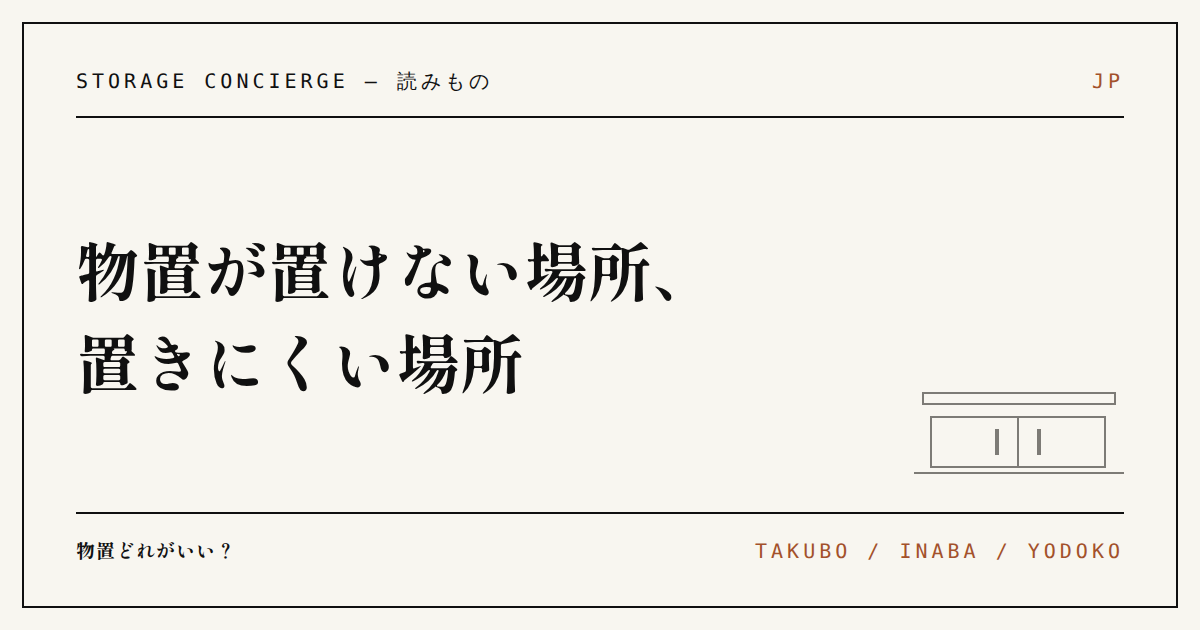
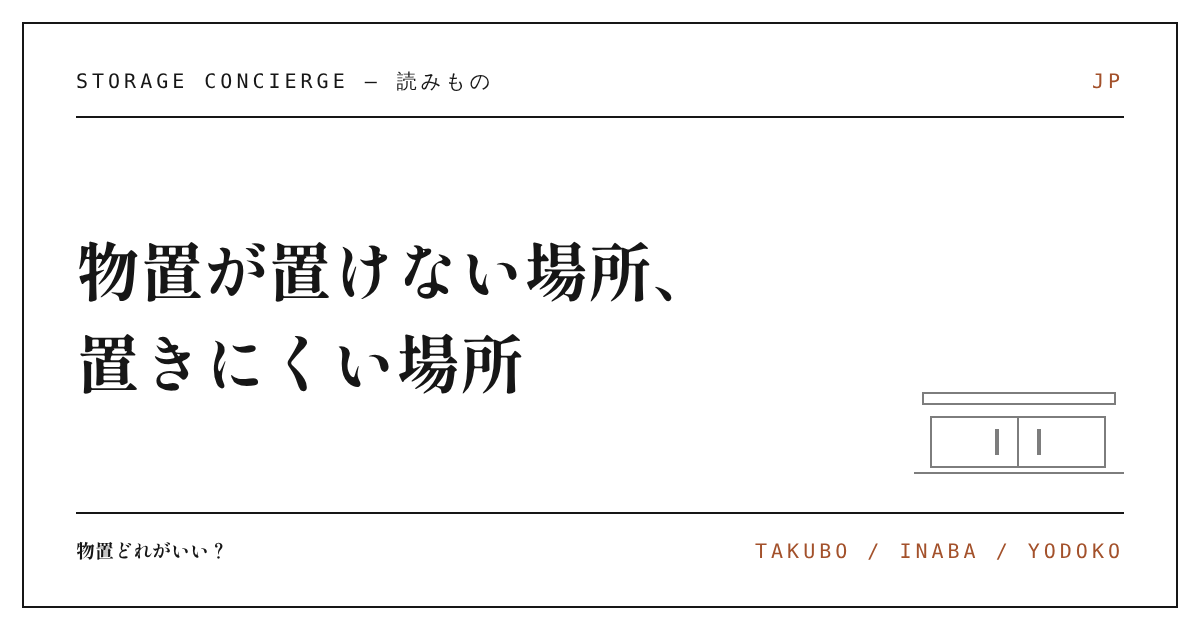
site: OG画像を新しい配色に作り直した 2026-10-15

diff --git a/index.html b/index.html
@@ -1452,6 +1452,8 @@ const INNER = {
                      発表を受けて当サイトに型番を追加したときは、別に '新商品' を立てる。
    既存の記録は削除・改変しないこと（この台帳は追記のみ）。 */
 const UPDATE_LOG = [
+  { date:'2026-10-15', type:'改定', title:'SNSで共有したときに出る絵を、新しい配色に作り直しました',
+    body:'10月14日に配色をベージュから白に変えましたが、SNSやLINEで共有したときに出るOG画像11枚は、ベージュの地色が焼き込まれたままでした。サイト上では見えず、共有したときだけ旧い配色が出る状態でした。記事ごとの10枚は生成ツール（tools/build-og-images.py）を回し直しています。ツールが要求する明朝体のフォントが手元に無かったので、npm の @fontsource/shippori-mincho-b1 から取って tools/_ogfonts/ に置きました（2MBあるので .gitignore に入れ、サイトには上げません）。サイト共通の og-image.png は、作ったときのツールが残っていなかったため、画像の色だけを置き換えています。地色を白に、文字と罫を#161616に、茶色のアクセントはそのままにする変換で、配置と文字は元のままです。' },
   { date:'2026-10-15', type:'改定', title:'記事の本文から製品ページへ行けるようにし、比較の状態を出しました',
     body:'2つの変更です。1つめ。記事の本文に出てくるシリーズ名と型番を、その製品ページへのリンクにしました。これまでは記事の末尾に製品ページへの導線があるだけで、本文中でシリーズ名や型番に触れてもそこからは行けませんでした。対象は段落と箇条書きの中だけで、見出しと表には入れていません。同じ行き先は1記事に1回、1記事あたり最大4本までです。12記事に29本付きました。長い製品名の一部を切り取らない（「フォルタ ウィズ」の中の「フォルタ」を拾わない）、型番の途中で切らない、すでにリンクがある箇所には入れない、という3つの歯止めを入れ、本文に出てくる順に付けています。生成は tools/build-product-mentions.py で、公開のたびに付け直します。2つめ。比較トレイに状態を出しました。1件だけ選んだときは「比較する」ボタンが押せない状態で出るだけで、なぜ押せないのかが分かりませんでした。「比較 1 / 3 ── あと1件えらぶと比べられます」のように、いま何件で、あと何件選べるのかを出しています。' },
   { date:'2026-10-15', type:'改定', title:'見出しの階層を直し、索引で0件になったときの出口を作りました',

diff --git a/tools/build-og-images.py b/tools/build-og-images.py
@@ -16,6 +16,10 @@
         sm-jp-700.woff2 / sm-lat-700.woff2
         （npm の @fontsource/shippori-mincho-b1 の files/ から取れる。OFL）
    どちらも無い環境では動かないので、画像を足すときだけ手で回す。
+   フォント2つは tools/_ogfonts/ に置いてある（.gitignore 済み。無くなったら
+   npm pack @fontsource/shippori-mincho-b1 の files/ から
+   shippori-mincho-b1-japanese-700-normal.woff2 → sm-jp-700.woff2
+   shippori-mincho-b1-latin-700-normal.woff2    → sm-lat-700.woff2 として置き直す）
 
 寸法は最初に作った5枚を実測して合わせてある。触ると既存と揃わなくなる。
 """
